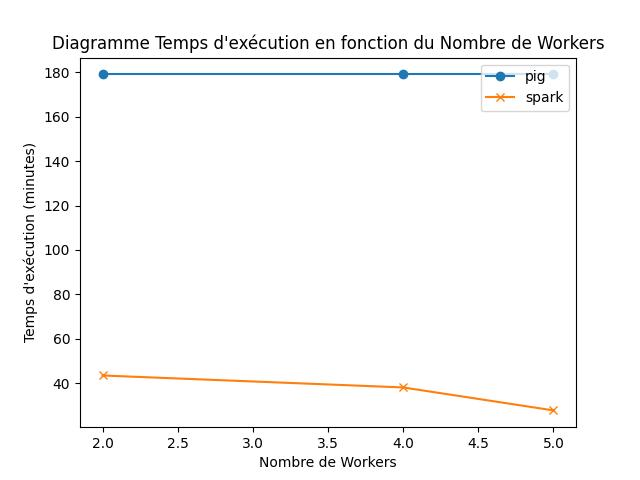
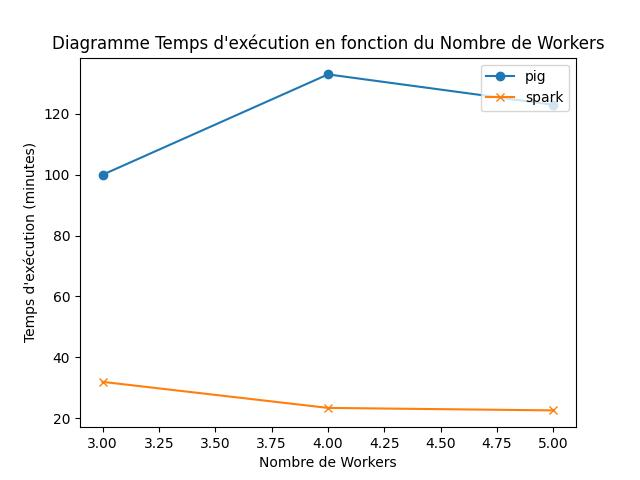
diagramme commited

diff --git a/diagramme.py b/diagramme.py
@@ -1,7 +1,7 @@
 import matplotlib.pyplot as plt
 
 
-with open ('results.txt', 'r') as fichier :
+with open ('./pig/results.txt', 'r') as fichier :
      temps_execution=[]
      nombre_workers=[]
      for ligne in fichier:
@@ -12,7 +12,7 @@ with open ('results.txt', 'r') as fichier :
           temps_execution.append(temps)
 
 
-temps_execution2=[43.51, 38.13, 27.8]
+temps_execution2=[31.91, 23.35, 22.53]
 
 plt.plot(nombre_workers, temps_execution, marker='o',label='pig')
 plt.plot(nombre_workers, temps_execution2, marker='x',label='spark')
